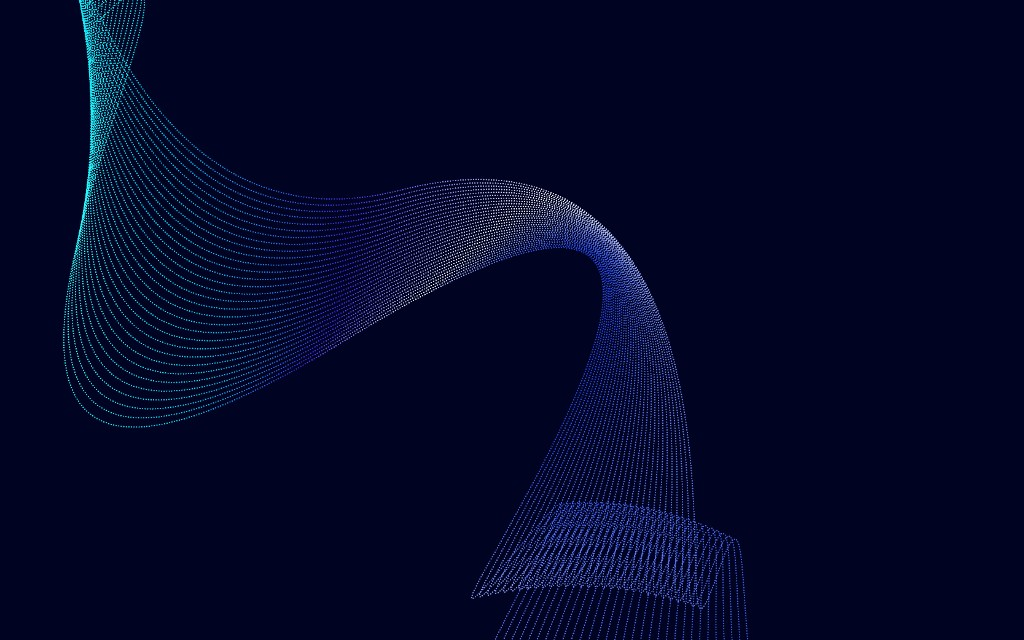
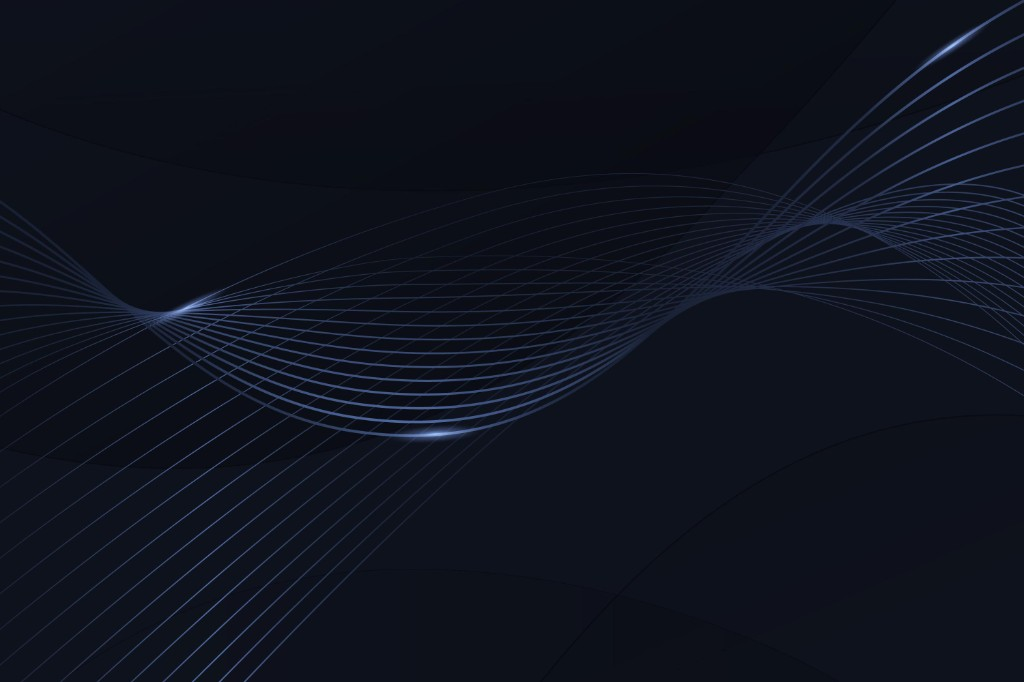
Arka plan görselini güncelle ve tam ekran cover yap
Yeni cyan dalga deseni, center cover ile tüm arka planı doldurur.

diff --git a/src/index.css b/src/index.css
@@ -20,8 +20,8 @@
   --color-logo-mark-bg: rgba(255, 255, 255, 0.05);
   --color-overlay: rgba(0, 0, 0, 0.72);
   --color-bg-pattern-opacity: 1;
-  --color-bg-pattern-size: min(100%, 1024px) auto;
-  --color-bg-pattern-position: left top;
+  --color-bg-pattern-size: cover;
+  --color-bg-pattern-position: center center;
   --color-bg-glow: none;
   --shadow-card: 0 0 0 1px rgba(255, 255, 255, 0.04);
   --shadow-card-hover: 0 8px 24px rgba(0, 0, 0, 0.35);
@@ -51,8 +51,8 @@
   --color-logo-mark-bg: rgba(255, 255, 255, 0.75);
   --color-overlay: rgba(15, 23, 42, 0.45);
   --color-bg-pattern-opacity: 1;
-  --color-bg-pattern-size: min(100%, 1024px) auto;
-  --color-bg-pattern-position: left top;
+  --color-bg-pattern-size: cover;
+  --color-bg-pattern-position: center center;
   --color-bg-glow: none;
   --shadow-card: 0 1px 2px rgba(15, 23, 42, 0.05), 0 4px 16px rgba(15, 23, 42, 0.04);
   --shadow-card-hover: 0 8px 28px rgba(15, 23, 42, 0.1);
